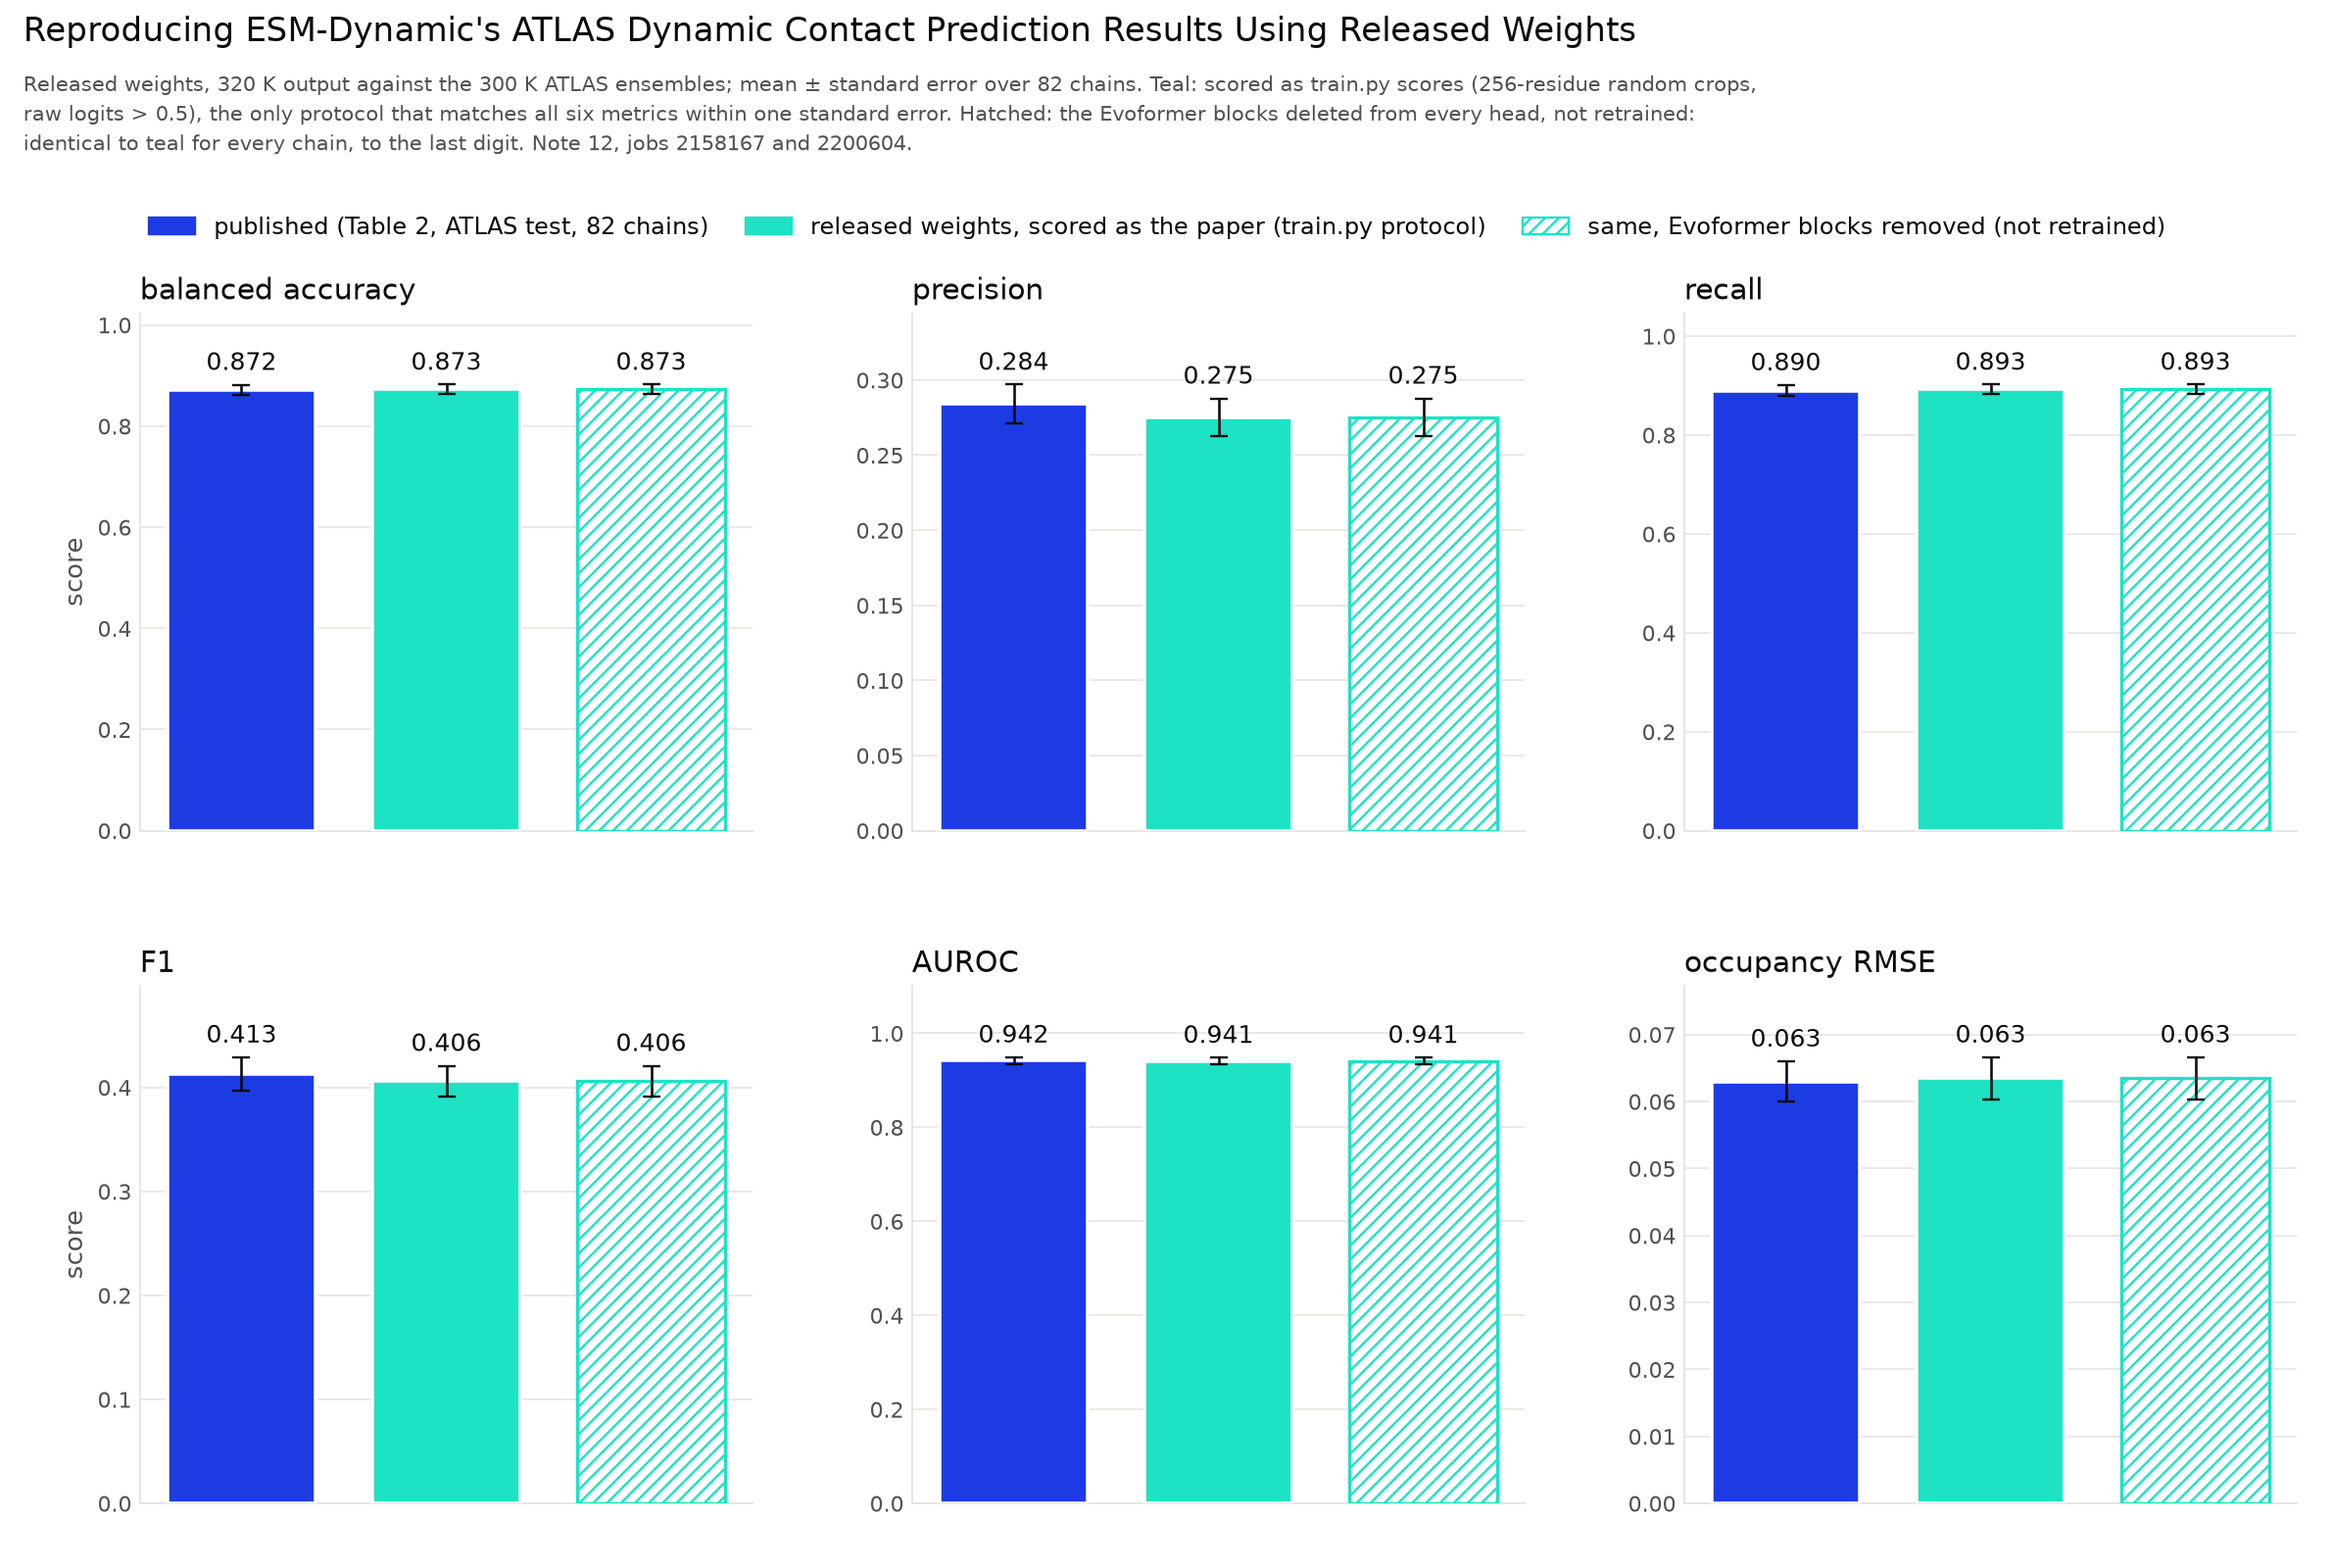
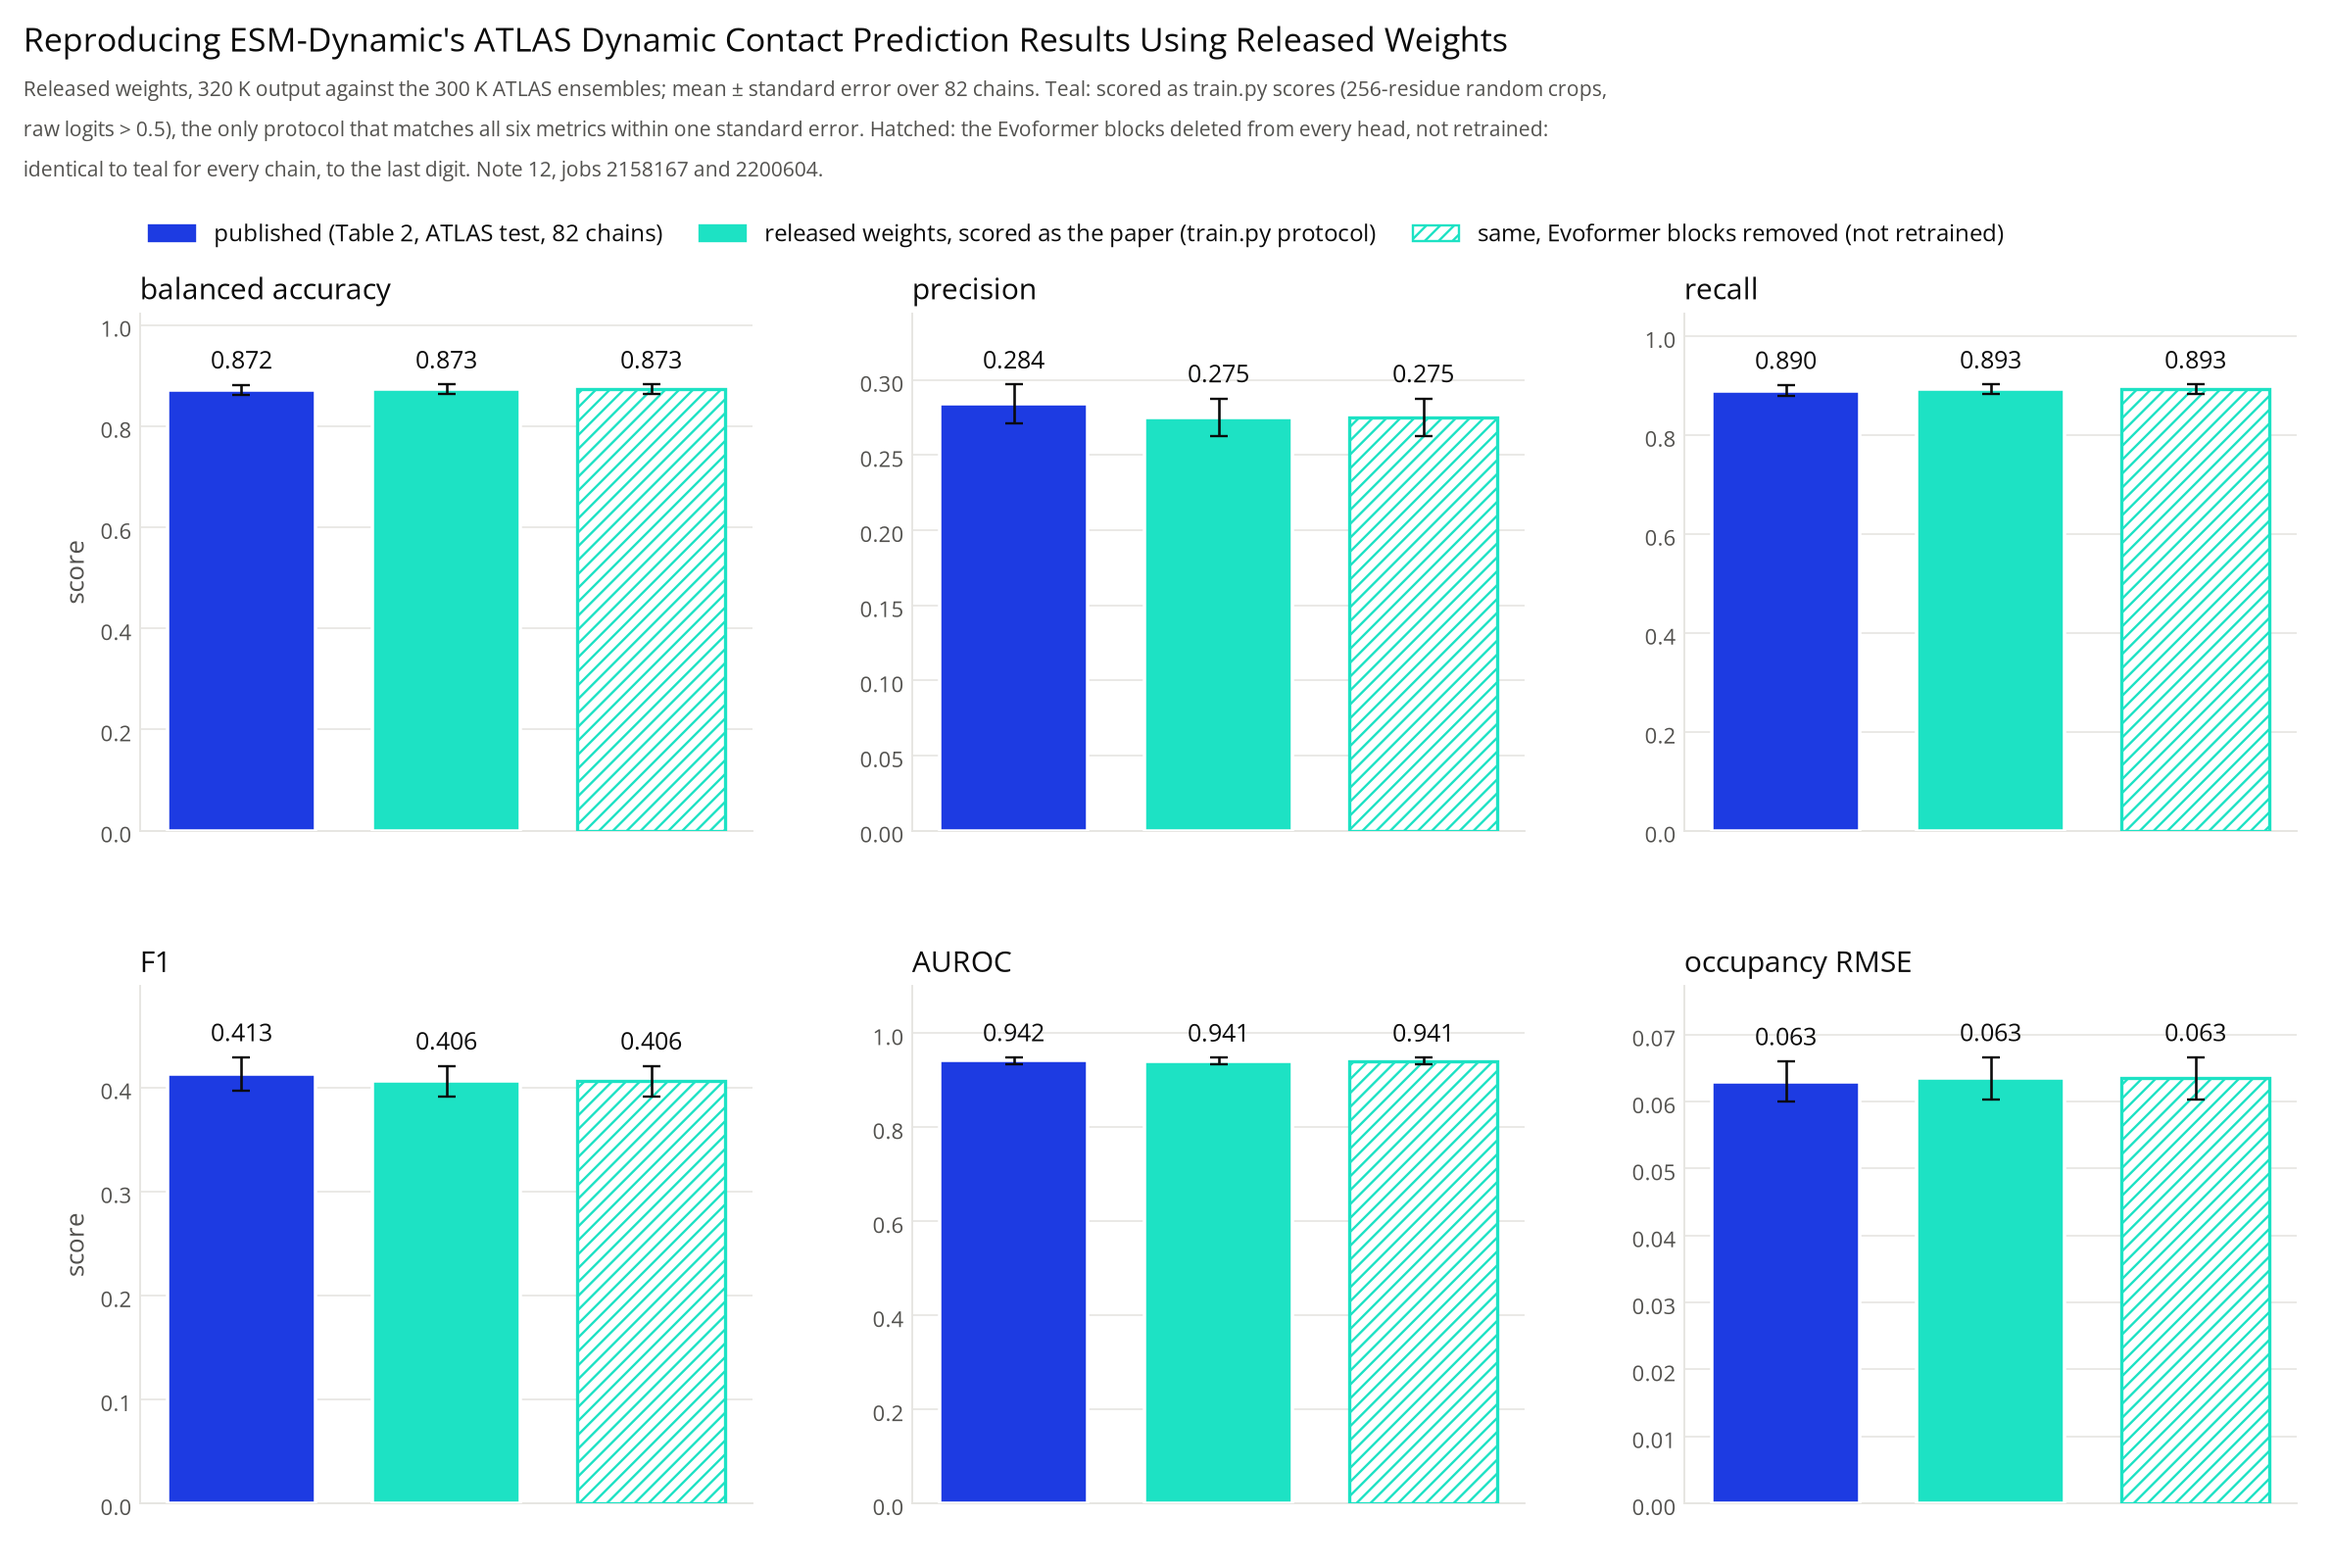
investigation: reproduction figures in Open Sans

diff --git a/investigation/scripts/plot_atlas_table2_reproduction.py b/investigation/scripts/plot_atlas_table2_reproduction.py
@@ -42,6 +42,7 @@ def main():
     import matplotlib
     matplotlib.use("Agg")
     import matplotlib.pyplot as plt
+    plt.rcParams["font.family"] = "Open Sans"   # installed in ~/Library/Fonts; falls back to the default if missing
 
     fig, grid = plt.subplots(2, 3, figsize=(14, 9.4), facecolor="white")
     fig.subplots_adjust(top=0.80, bottom=0.04, left=0.06, right=0.985, wspace=0.26, hspace=0.30)

diff --git a/investigation/scripts/plot_si_table6_reproduction.py b/investigation/scripts/plot_si_table6_reproduction.py
@@ -77,6 +77,7 @@ def main():
     import matplotlib
     matplotlib.use("Agg")
     import matplotlib.pyplot as plt
+    plt.rcParams["font.family"] = "Open Sans"   # installed in ~/Library/Fonts; falls back to the default if missing
 
     fig, grid = plt.subplots(2, 3, figsize=(14, 9.4), facecolor="white")
     fig.subplots_adjust(top=0.84, bottom=0.07, left=0.06, right=0.985, wspace=0.26, hspace=0.38)
